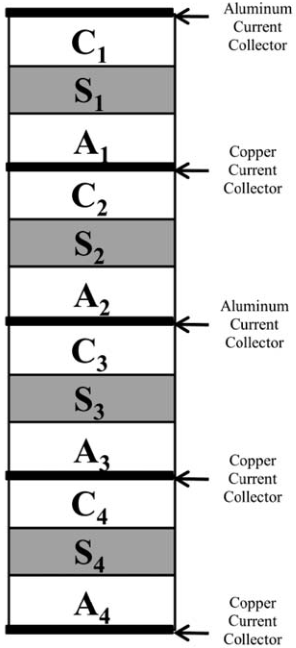
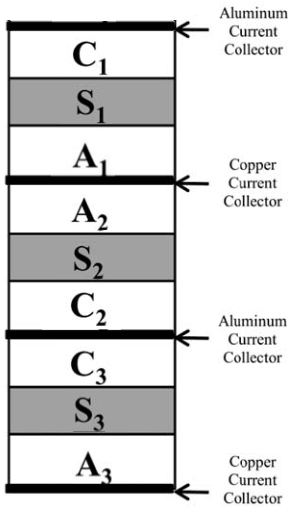
Modifications according to final thesis agreement. Also changes topology image.

diff --git a/chapters/layer_opt/layer_opt.tex b/chapters/layer_opt/layer_opt.tex
@@ -7,24 +7,26 @@
 
 \chapter[Model-based Design Of Pouch Cells]{%
     Model-based  Design Of  Pouch Cells\footnote{\textbf{Attribution  of content}  \
-        The  groundwork for  converting the  existing computer  code (LIONSIMBA~v1.0x)
+        The  groundwork  for converting  the  existing  computer code  (LIONSIMBA~v1.0x)
         into  a suitable  form  for  layer optimisation  was  initiated  by this  thesis
         author, \mbox{Krishnakumar  Gopalakrishnan}. However, with the  exception of the
         spectral scheme,  for which \mbox{Krishnakumar Gopalakrishnan}  was responsible,
-        and  the  zero-dimensional  thermal  model for  which  \mbox{Ian  Campbell}  was
-        responsible,  the  advancements  inherent  to  the  enhanced  computer  software
-        (LIONSIMBA~v2.0) were made in  equal parts by \mbox{Krishnakumar Gopalakrishnan}
-        and  \mbox{Ian  Campbell}.  These  advancements would  not  have  been  possible
-        without the  contributions and support of  Dr.~Davide Raimondo who served  as an
-        unofficial supervisor  for the  work reported  in this  chapter. The  concept of
-        layer reconfiguration  for energy  and power  trade-off, the  layer optimisation
-        framework, and the  source code by which it is  implemented were co-developed in
-        equal  parts  by  \mbox{Krishnakumar Gopalakrishnan}  and  \mbox{Ian  Campbell}.
-        \mbox{Krishnakumar Gopalakrishnan} was the  major contributor to the development
-        of the binary search while \mbox{Ian  Campbell} was the major contributor in the
-        analysis of results. \mbox{Parvathy  Chittur Subramanianprasad} was instrumental
-        in  developing the  analytical expression  for  the maximum  possible number  of
-    layers~$n_\text{max}$.}%
+        and  the  zero-dimensional  thermal  model for  which  \mbox{Ian  D.\  Campbell}
+        (PhD  student,  Imperial  College  London)  was  responsible,  the  advancements
+        inherent to the  enhanced computer software (LIONSIMBA~v2.0) were  made in equal
+        parts by  \mbox{Krishnakumar Gopalakrishnan} and \mbox{Ian  D.\ Campbell}. These
+        advancements would not have been  possible without the contributions and support
+        of \mbox{Dr.~Davide M.~Raimondo} (Associate  Professor, University of Pavia) who
+        served as  an unofficial supervisor for  the work reported in  this chapter. The
+        concept  of layer  reconfiguration for  energy  and power  trade-off, the  layer
+        optimisation  framework,  and  the  source  code  by  which  it  is  implemented
+        were  co-developed  in equal  parts  by  \mbox{Krishnakumar Gopalakrishnan}  and
+        \mbox{Ian  D.\  Campbell}.  \mbox{Krishnakumar  Gopalakrishnan}  was  the  major
+        contributor  to  the  development  of  the binary  search  while  \mbox{Ian  D.\
+            Campbell} was the  major contributor in the analysis  of results. \mbox{Parvathy
+        Chittur Subramanianprasad}  (MSc student, Queen  Mary University of  London) was
+        instrumental in  developing the analytical  expression for the  maximum possible
+    number of layers~$n_\text{max}$.}%
 }\label{ch:modelbaseddesign}
 
 \vspace*{-1em}

diff --git a/chapters/layer_opt/framework.tex b/chapters/layer_opt/framework.tex
@@ -41,7 +41,7 @@ diagram into two parts ---
         \vspace*{0.7225cm}
         \footnote{This figure was created by \mbox{Krishnakumar Gopalakrishnan} who
             asserts copyright, with intellectual contributions from and the right to
-        use asserted by \mbox{Ian Campbell}.}
+        use asserted by \mbox{Ian D.\ Campbell}.}
     \end{minipage}
 \end{figure}
 
@@ -120,7 +120,7 @@ each  of  these  terms   is  explained  in  tables~\ref{tbl:CommonVehicleParams}
 and~\ref{tbl:UniqueVehicleParams}  along with  their  numerical  values used  in
 simulation.
 
-\subsubsection*{Computation of layer-dependent vehicle mass}
+\subsubsection*{Computation of layer-dependent vehicle mass}\label{sec:layerdependentvehiclemass}
 
 Changing  the layer  count used  within a  cell changes  its mass.  This in-turn
 affects the mass of the pack, which further influences the overall vehicle mass.
@@ -479,13 +479,16 @@ the approach presented here may be easily extended to this case.
     \end{subfigure}
     \caption[Two possile topologies for arranging the layers within a pouch
     cell]
-    {Two possible topologies for arranging the layers within a pouch cell. In
-        the first arrangement shown in the left sub-figure, the two outermost
-        layers have Copper current collectors at both extrema. The second arrangement shown in the
-        right sub-figure depicts a heterogeneous arrangement wherein the
-        outermost current collectors are Copper at one end and Aluminium
-        at its other end. Figure adapted from
-    Northrop~\etal~\cite{Northrop2011}}
+    {Two possible topologies for arranging the layers within a pouch cell. The
+        first possibility entails using an even number of layers as shown in the
+        example illustration with four layers in the left sub-figure. Here, both
+        extrema of the stack are occupied by copper current collectors. The
+        second possible arrangement consists of using an odd number of layers
+        and  is depicted in the  sample illustration with three layers in
+        the right sub-figure. This represents a heterogeneous topology wherein
+        the outermost current collectors of the stack consist of copper at one
+        end and aluminium at its other end. Figure adapted from
+    Northrop~\etal~\cite{Northrop2011}.}
     \label{fig:topologies}
 \end{figure}
 

diff --git a/chapters/layer_opt/results.tex b/chapters/layer_opt/results.tex
@@ -167,7 +167,7 @@ layer choices for the \gls{bev} and \gls{phev} platforms respectively .
         fast charging powers and thermal conditions]{Optimal cell layer configurations for the \gls{phev}}
         \label{fig:fig_generate_heatmap_PHEV}
         \mpfootnotes[1]
-        \footnote{These figures were created by \mbox{Ian Campbell} who asserts copyright,
+        \footnote{These figures were created by \mbox{Ian D.\ Campbell} who asserts copyright,
             with intellectual contributions from and the right to use asserted by
         \mbox{Krishnakumar Gopalakrishnan}.}
     \end{minipage}
@@ -233,7 +233,7 @@ represented by the linear downward-sloping line.
         }
         \label{fig:fig_CapacityQuadrants}
         \mpfootnotes[1]
-        \footnote{This figure was created by \mbox{Ian Campbell} who asserts copyright,
+        \footnote{This figure was created by \mbox{Ian D.\ Campbell} who asserts copyright,
             with intellectual contributions from and the right to use asserted by
         \mbox{Krishnakumar Gopalakrishnan}.}
     \end{minipage}

diff --git a/chapters/layer_opt/separate_bev_phev_params_table.tex b/chapters/layer_opt/separate_bev_phev_params_table.tex
@@ -11,7 +11,7 @@
 	\centering
     \sisetup{table-format=4.1, table-number-alignment=center, table-space-text-pre=\textsuperscript{a}, table-align-text-pre=false}
 	\begin{threeparttable}[t]
-		\begin{tabular*}{0.675\textwidth}{@{} l @{\extracolsep{\fill}}  S S @{}}	% Works with Tnote
+		\begin{tabular*}{0.72\textwidth}{@{} l @{\extracolsep{\fill}}  S S @{}}	% Works with Tnote
 			\toprule
 			\multicolumn{1}{@{} l}{Parameter} & \multicolumn{1}{c}{BEV} & \multicolumn{1}{c@{}}{PHEV} \\
 			\midrule
@@ -26,7 +26,7 @@
 		\begin{tablenotes}[para,flushleft]
 		\item[a]Calculated based on~\cite{ChevyBoltSpecs}
 		\item[b]Calculated based on~\cite{motortrendEcotec,ChevyBoltSpecs}
-		\item[c]Calculated see \cref{sec:Configurations}
+		\item[c]Calculated (see sections~\ref{sec:layerdependentvehiclemass} \& \ref{sec:massofonecell})
 		\item[d]Assumed
 		\item[e]Ref.~\cite{EmadiElectric}
 		\end{tablenotes}

diff --git a/chapters/layer_opt/energy_power_tradeoff.tex b/chapters/layer_opt/energy_power_tradeoff.tex
@@ -284,7 +284,7 @@ trade-off phenomenon.
                 magnitude  of  applied  current  is   explained  in  the  section  dealing  with
         \hyperlink{refcellselection}{selection of a  suitable reference capacity cell} (also see \cref{sec:surfareaperlayer}).}}
 
-        \footnote{This figure was created by \mbox{Ian Campbell} who asserts copyright,
+        \footnote{This figure was created by \mbox{Ian D.\ Campbell} who asserts copyright,
             with intellectual contributions from and the right to use asserted by
         \mbox{Krishnakumar Gopalakrishnan}.}
     \end{minipage}

diff --git a/chapters/layer_opt/scope_drivetrain.tex b/chapters/layer_opt/scope_drivetrain.tex
@@ -45,7 +45,7 @@ evaluation at ---
         \mpfootnotes[1]
         \footnote{This figure was created by \mbox{Krishnakumar Gopalakrishnan} who
             asserts copyright, with intellectual contributions from and the right to
-        use asserted by \mbox{Ian Campbell}.}
+        use asserted by \mbox{Ian D.\ Campbell}.}
     \end{minipage}
 \end{figure}
 
